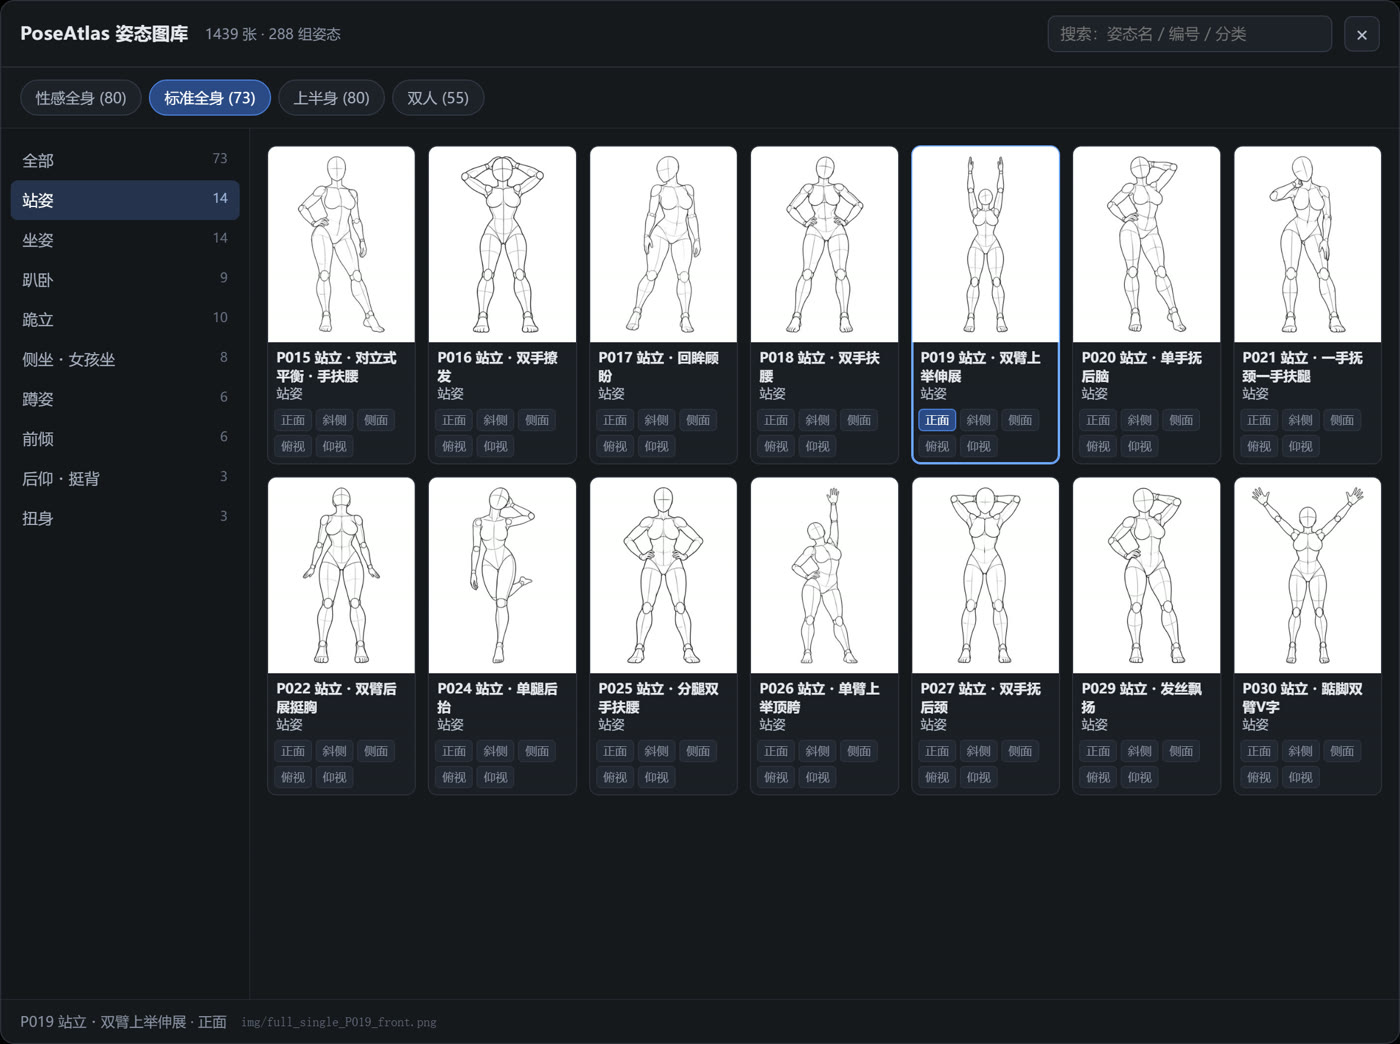
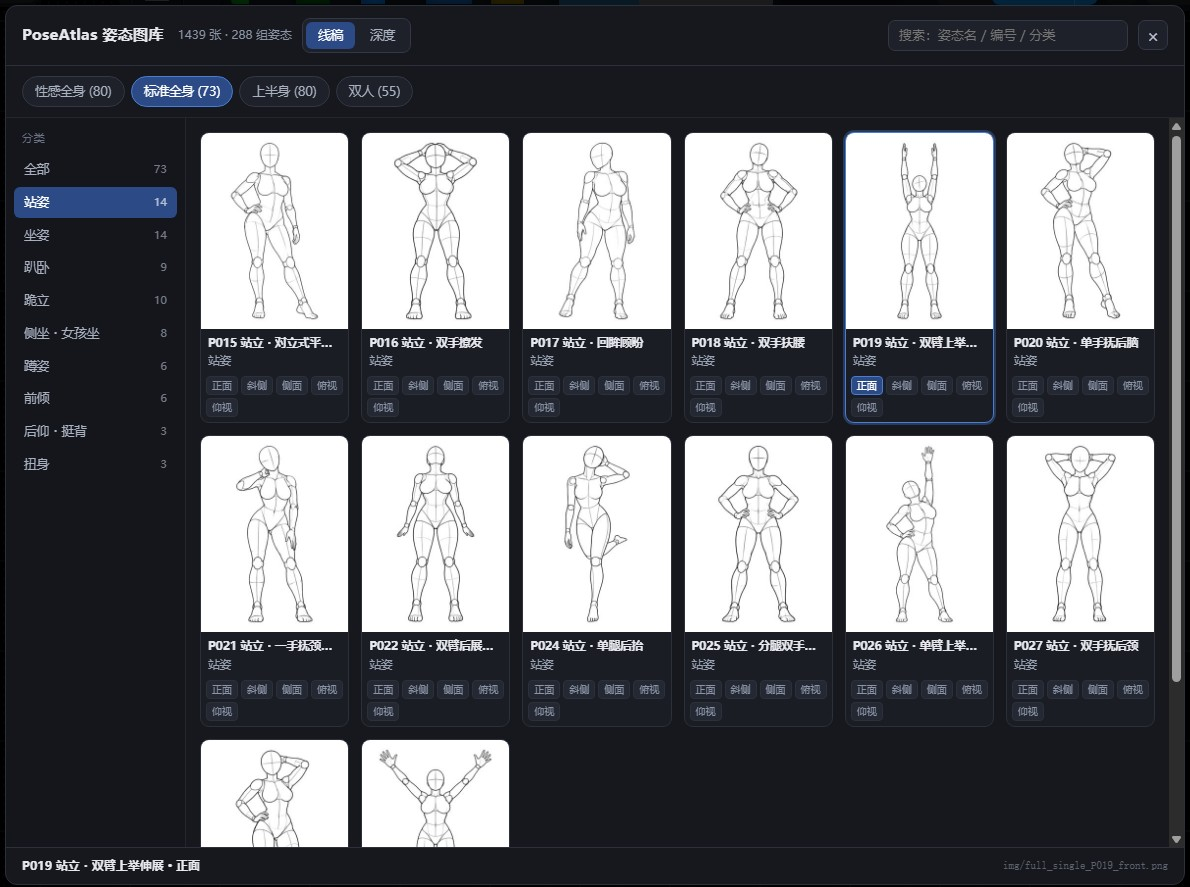
docs: refresh screenshots and add depth gallery images
- docs/gallery.jpg       re-shot from the live UI (now shows 线稿/深度 switcher)
- docs/gallery-depth.jpg new: depth grid with the per-card ↓ 原图 buttons
- docs/node-depth.jpg    new: node canvas in depth mode (duo pose, so the
                         front/back layering is visible)
- docs/node-loader.jpg   re-shot, now includes the render widget
- docs/node-info.jpg     re-shot
- README: embed the depth gallery in a collapsible block and show the depth
  node next to the line-art one.

Also fixes a stale-state bug found while shooting: the depth-local probe cached
a negative result for the page lifetime, so a card could keep showing ↓ 原图
after the file had already been downloaded. The probe URL now carries a
per-session fingerprint, and a successful download swaps in a fresh one.

diff --git a/web/poseatlas.js b/web/poseatlas.js
@@ -33,13 +33,16 @@ function renderOf(node) {
   return w && w.value === RENDER_DEPTH ? RENDER_DEPTH : RENDER_LINE;
 }
 
-/* 深度原图是否已在本地：探测 depth/img/<stem>.png，结果缓存 */
+/* 深度原图是否已在本地：探测 depth/img/<stem>.png，结果缓存。
+   ComfyUI 静态文件走浏览器缓存，所以探测 URL 带一个「本次页面加载」的指纹，
+   避免沿用上次会话的缓存结果（那时图可能还没下载）。 */
 const DEPTH_LOCAL = new Map();
-const DEPTH_BUST = new Map(); // 下载成功后加时间戳，绕过浏览器缓存
+const SESSION_TAG = Date.now().toString(36);
+const DEPTH_BUST = new Map(); // 下载成功后换成新的指纹，跳过旧缓存
 
 function depthFullUrl(entry) {
-  const bust = DEPTH_BUST.get(entry.depth_file);
-  return EXT_BASE + entry.depth_file + (bust ? `?t=${bust}` : "");
+  const tag = DEPTH_BUST.get(entry.depth_file) || SESSION_TAG;
+  return EXT_BASE + entry.depth_file + `?v=${tag}`;
 }
 
 function probeDepthLocal(entry) {
